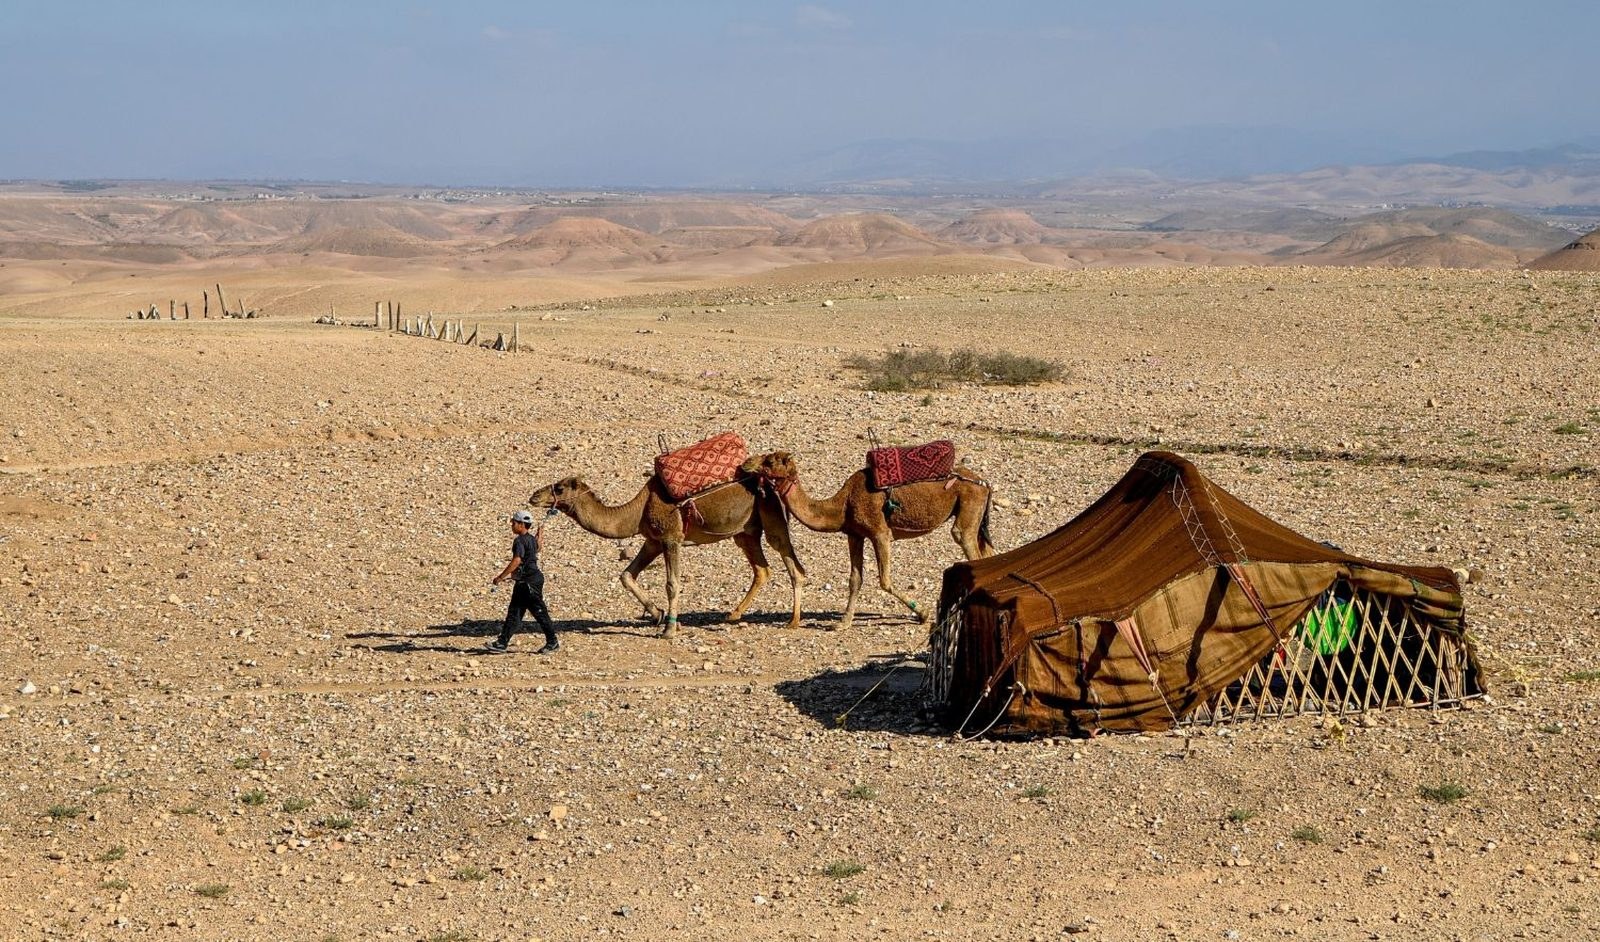
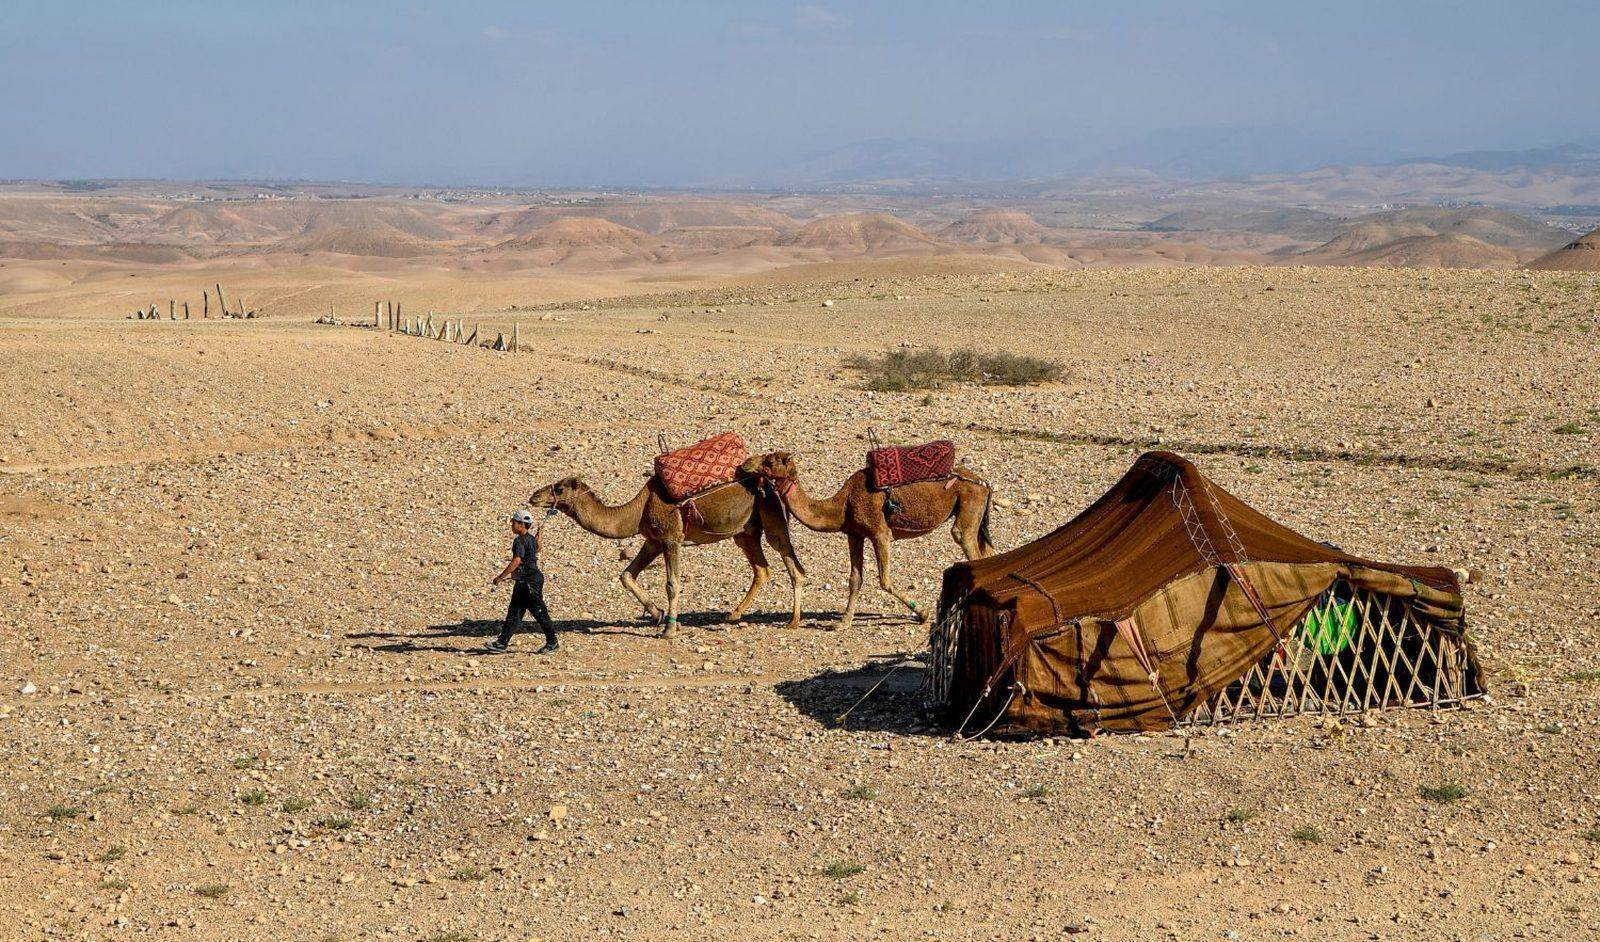
Agafay activity: lighter hero image with 960w variant and image preload (EN/ES/PT/IT); fix a small contrast issue
Claude-Session: https://claude.ai/code/session_01ApzoY7XgXGfXda4km4EDPi

diff --git a/it/activities/agafay-desert-quad-camel-dinner-marrakech/index.html b/it/activities/agafay-desert-quad-camel-dinner-marrakech/index.html
@@ -372,6 +372,7 @@ try{if(localStorage.getItem('hm_consent')==='granted'){gtag('consent','update',{
 }
   </script>
   <!--tailwind-css-->
+  <link rel="preload" as="image" href="/public/camels-berber-tent-agafay-desert-marrakech-morocco-1600.webp" imagesrcset="/public/camels-berber-tent-agafay-desert-marrakech-morocco-960.webp 960w, /public/camels-berber-tent-agafay-desert-marrakech-morocco-1600.webp 1600w" imagesizes="100vw" fetchpriority="high" />
   <link rel="preload" href="/public/fonts/playfair-display-latin.woff2" as="font" type="font/woff2" crossorigin>
   <link rel="preload" href="/public/fonts/jost-latin.woff2" as="font" type="font/woff2" crossorigin>
   <link rel="preload" href="/public/fonts/plus-jakarta-sans-latin.woff2" as="font" type="font/woff2" crossorigin>
@@ -586,7 +587,7 @@ try{if(localStorage.getItem('hm_consent')==='granted'){gtag('consent','update',{
   <main id="content">
     <section class="relative isolate flex min-h-[68vh] items-center overflow-hidden">
       <picture>
-        <source type="image/webp" srcset="/public/camels-berber-tent-agafay-desert-marrakech-morocco-1600.webp" sizes="100vw" />
+        <source type="image/webp" srcset="/public/camels-berber-tent-agafay-desert-marrakech-morocco-960.webp 960w, /public/camels-berber-tent-agafay-desert-marrakech-morocco-1600.webp 1600w" sizes="100vw" />
         <img src="/public/camels-berber-tent-agafay-desert-marrakech-morocco-1600.jpg" alt="Due cammelli condotti da una guida accanto a una tenda berbera nel deserto di pietra di Agafay, vicino a Marrakech" width="1600" height="942" fetchpriority="high" decoding="async" class="absolute inset-0 -z-20 h-full w-full object-cover" style="object-position:50% 50%" />
       </picture>
       <div class="hero-overlay absolute inset-0 -z-10" aria-hidden="true"></div>

diff --git a/pt/activities/agafay-desert-quad-camel-dinner-marrakech/index.html b/pt/activities/agafay-desert-quad-camel-dinner-marrakech/index.html
@@ -372,6 +372,7 @@ try{if(localStorage.getItem('hm_consent')==='granted'){gtag('consent','update',{
 }
   </script>
   <!--tailwind-css-->
+  <link rel="preload" as="image" href="/public/camels-berber-tent-agafay-desert-marrakech-morocco-1600.webp" imagesrcset="/public/camels-berber-tent-agafay-desert-marrakech-morocco-960.webp 960w, /public/camels-berber-tent-agafay-desert-marrakech-morocco-1600.webp 1600w" imagesizes="100vw" fetchpriority="high" />
   <link rel="preload" href="/public/fonts/playfair-display-latin.woff2" as="font" type="font/woff2" crossorigin>
   <link rel="preload" href="/public/fonts/jost-latin.woff2" as="font" type="font/woff2" crossorigin>
   <link rel="preload" href="/public/fonts/plus-jakarta-sans-latin.woff2" as="font" type="font/woff2" crossorigin>
@@ -586,7 +587,7 @@ try{if(localStorage.getItem('hm_consent')==='granted'){gtag('consent','update',{
   <main id="content">
     <section class="relative isolate flex min-h-[68vh] items-center overflow-hidden">
       <picture>
-        <source type="image/webp" srcset="/public/camels-berber-tent-agafay-desert-marrakech-morocco-1600.webp" sizes="100vw" />
+        <source type="image/webp" srcset="/public/camels-berber-tent-agafay-desert-marrakech-morocco-960.webp 960w, /public/camels-berber-tent-agafay-desert-marrakech-morocco-1600.webp 1600w" sizes="100vw" />
         <img src="/public/camels-berber-tent-agafay-desert-marrakech-morocco-1600.jpg" alt="Dois camelos conduzidos por um guia junto a uma tenda berbere no deserto de pedra de Agafay, perto de Marraquexe" width="1600" height="942" fetchpriority="high" decoding="async" class="absolute inset-0 -z-20 h-full w-full object-cover" style="object-position:50% 50%" />
       </picture>
       <div class="hero-overlay absolute inset-0 -z-10" aria-hidden="true"></div>

diff --git a/es/activities/agafay-desert-quad-camel-dinner-marrakech/index.html b/es/activities/agafay-desert-quad-camel-dinner-marrakech/index.html
@@ -372,6 +372,7 @@ try{if(localStorage.getItem('hm_consent')==='granted'){gtag('consent','update',{
 }
   </script>
   <!--tailwind-css-->
+  <link rel="preload" as="image" href="/public/camels-berber-tent-agafay-desert-marrakech-morocco-1600.webp" imagesrcset="/public/camels-berber-tent-agafay-desert-marrakech-morocco-960.webp 960w, /public/camels-berber-tent-agafay-desert-marrakech-morocco-1600.webp 1600w" imagesizes="100vw" fetchpriority="high" />
   <link rel="preload" href="/public/fonts/playfair-display-latin.woff2" as="font" type="font/woff2" crossorigin>
   <link rel="preload" href="/public/fonts/jost-latin.woff2" as="font" type="font/woff2" crossorigin>
   <link rel="preload" href="/public/fonts/plus-jakarta-sans-latin.woff2" as="font" type="font/woff2" crossorigin>
@@ -586,7 +587,7 @@ try{if(localStorage.getItem('hm_consent')==='granted'){gtag('consent','update',{
   <main id="content">
     <section class="relative isolate flex min-h-[68vh] items-center overflow-hidden">
       <picture>
-        <source type="image/webp" srcset="/public/camels-berber-tent-agafay-desert-marrakech-morocco-1600.webp" sizes="100vw" />
+        <source type="image/webp" srcset="/public/camels-berber-tent-agafay-desert-marrakech-morocco-960.webp 960w, /public/camels-berber-tent-agafay-desert-marrakech-morocco-1600.webp 1600w" sizes="100vw" />
         <img src="/public/camels-berber-tent-agafay-desert-marrakech-morocco-1600.jpg" alt="Dos camellos guiados junto a una jaima bereber en el desierto de piedra de Agafay, cerca de Marrakech" width="1600" height="942" fetchpriority="high" decoding="async" class="absolute inset-0 -z-20 h-full w-full object-cover" style="object-position:50% 50%" />
       </picture>
       <div class="hero-overlay absolute inset-0 -z-10" aria-hidden="true"></div>

diff --git a/activities/agafay-desert-quad-camel-dinner-marrakech/index.html b/activities/agafay-desert-quad-camel-dinner-marrakech/index.html
@@ -372,6 +372,7 @@ try{if(localStorage.getItem('hm_consent')==='granted'){gtag('consent','update',{
 }
   </script>
   <!--tailwind-css-->
+  <link rel="preload" as="image" href="/public/camels-berber-tent-agafay-desert-marrakech-morocco-1600.webp" imagesrcset="/public/camels-berber-tent-agafay-desert-marrakech-morocco-960.webp 960w, /public/camels-berber-tent-agafay-desert-marrakech-morocco-1600.webp 1600w" imagesizes="100vw" fetchpriority="high" />
   <link rel="preload" href="/public/fonts/playfair-display-latin.woff2" as="font" type="font/woff2" crossorigin>
   <link rel="preload" href="/public/fonts/jost-latin.woff2" as="font" type="font/woff2" crossorigin>
   <link rel="preload" href="/public/fonts/plus-jakarta-sans-latin.woff2" as="font" type="font/woff2" crossorigin>
@@ -585,7 +586,7 @@ try{if(localStorage.getItem('hm_consent')==='granted'){gtag('consent','update',{
   <main id="content">
     <section class="relative isolate flex min-h-[68vh] items-center overflow-hidden">
       <picture>
-        <source type="image/webp" srcset="/public/camels-berber-tent-agafay-desert-marrakech-morocco-1600.webp" sizes="100vw" />
+        <source type="image/webp" srcset="/public/camels-berber-tent-agafay-desert-marrakech-morocco-960.webp 960w, /public/camels-berber-tent-agafay-desert-marrakech-morocco-1600.webp 1600w" sizes="100vw" />
         <img src="/public/camels-berber-tent-agafay-desert-marrakech-morocco-1600.jpg" alt="Two camels led by a local guide next to a Berber tent in the Agafay stone desert near Marrakech" width="1600" height="942" fetchpriority="high" decoding="async" class="absolute inset-0 -z-20 h-full w-full object-cover" style="object-position:50% 50%" />
       </picture>
       <div class="hero-overlay absolute inset-0 -z-10" aria-hidden="true"></div>

diff --git a/public/tailwind.css b/public/tailwind.css
@@ -38,3 +38,4 @@ li.text-center>span.font-display.text-6xl{color:#9a6d14}
 .ft-legal{display:flex;flex-direction:column;align-items:center;gap:1rem;padding:2rem 0;text-align:center;font-family:Jost,system-ui,sans-serif;font-size:.875rem}.ft-brand{display:block;transition:opacity .2s}.ft-brand:hover{opacity:.85}.ft-brand img{display:block;width:7.5rem;height:auto}.ft-line{display:flex;flex-wrap:wrap;align-items:center;justify-content:center;gap:.5rem 1rem;margin:0;color:rgba(255,255,255,.9)}.ft-line a{color:#c99a2e;transition:color .2s}.ft-line a:hover{color:#e9c96a}.ft-line i{font-style:normal;color:rgba(255,255,255,.55)}
 .ft-copy{margin:0;color:rgba(255,255,255,.62)}
 .ci-dl{margin-top:1.5rem;border:1px solid rgba(20,16,10,.12);border-radius:1rem;overflow:hidden;background:#faf7f0}.ci-dl>div{display:grid;grid-template-columns:11rem 1fr;gap:.5rem 1rem;padding:1rem 1.25rem;border-top:1px solid rgba(20,16,10,.1)}.ci-dl>div:first-child{border-top:0}.ci-dl dt{font-size:.8rem;font-weight:600;letter-spacing:.14em;text-transform:uppercase;color:#6f4f0c}.ci-dl dd{margin:0;word-break:break-word}@media(max-width:560px){.ci-dl>div{grid-template-columns:1fr}}
+.bg-\[\#f6f1e8\] .text-gray-500,.bg-\[\#faf7f0\] .text-gray-500,.bg-\[\#faf6ee\] .text-gray-500{color:#5b6472}
